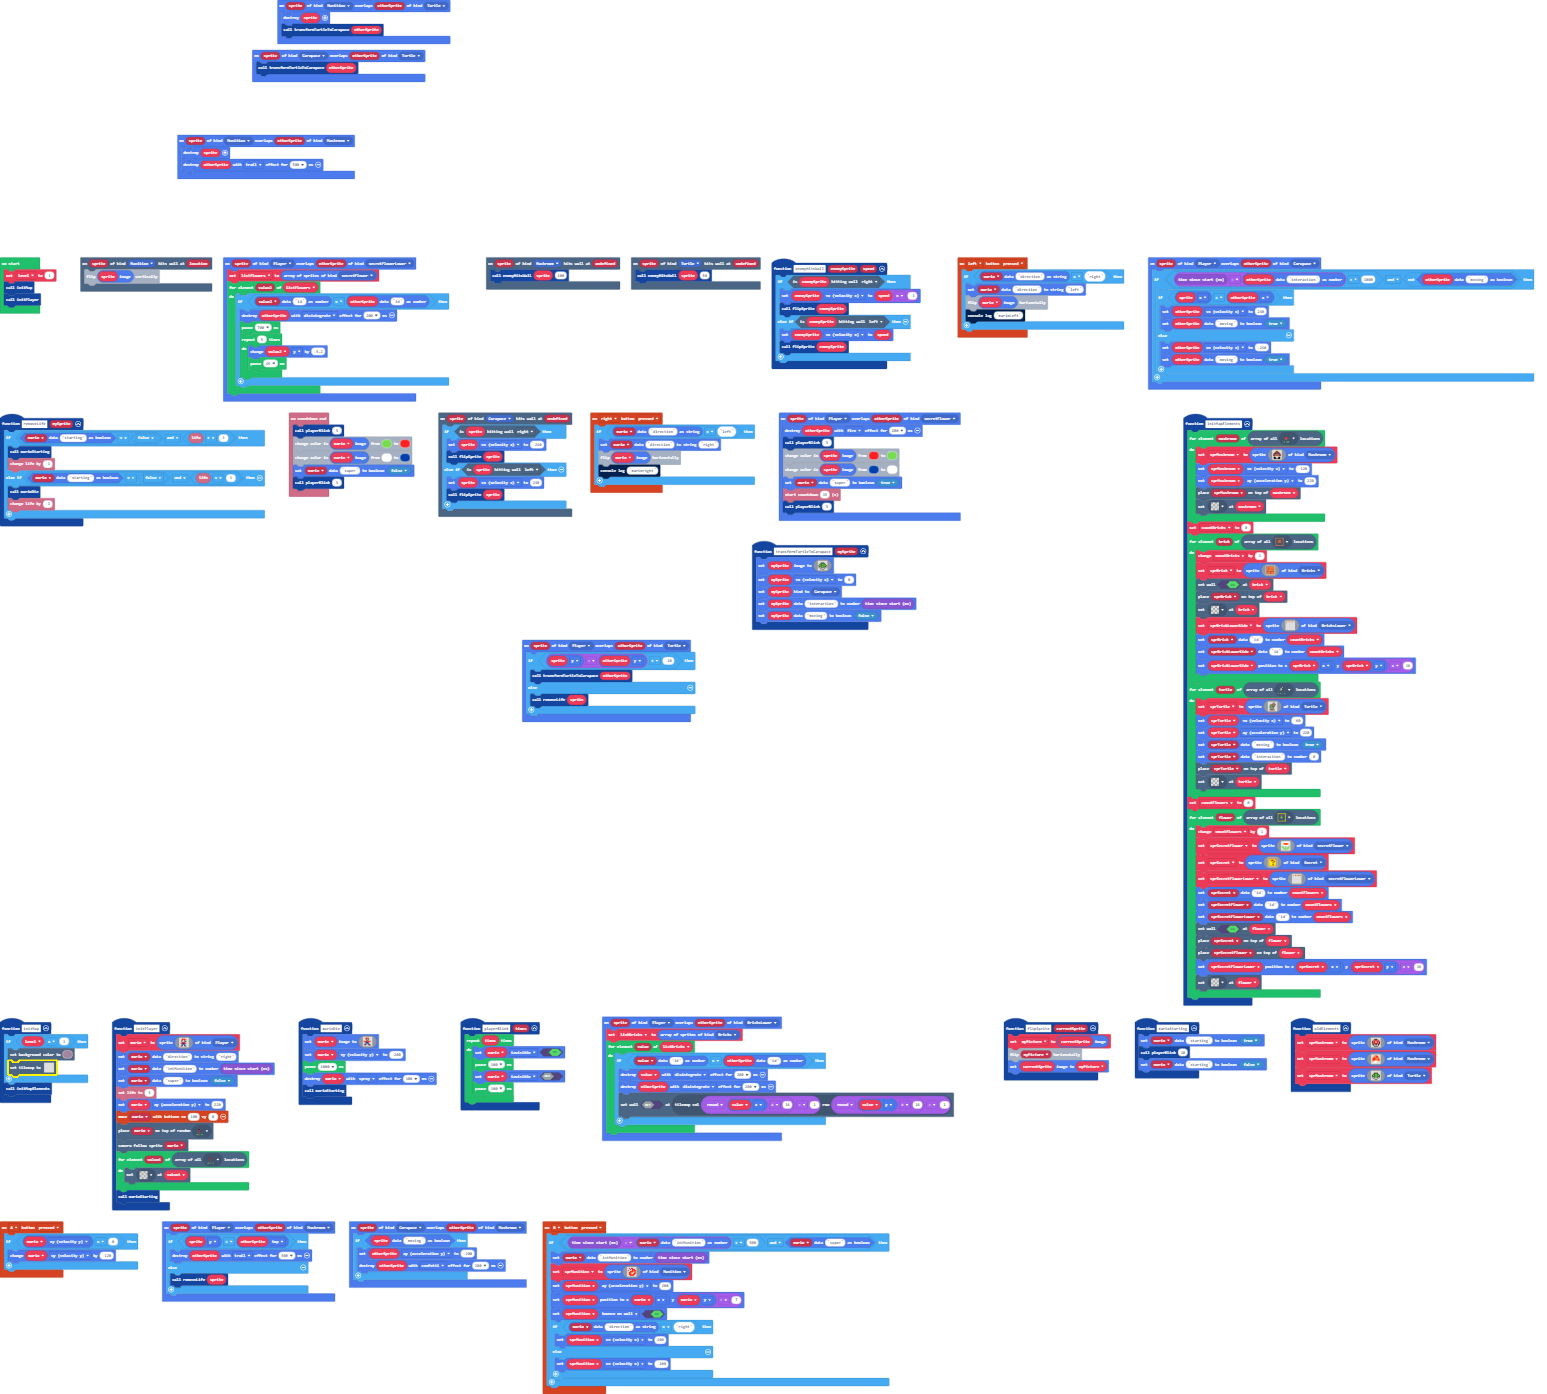
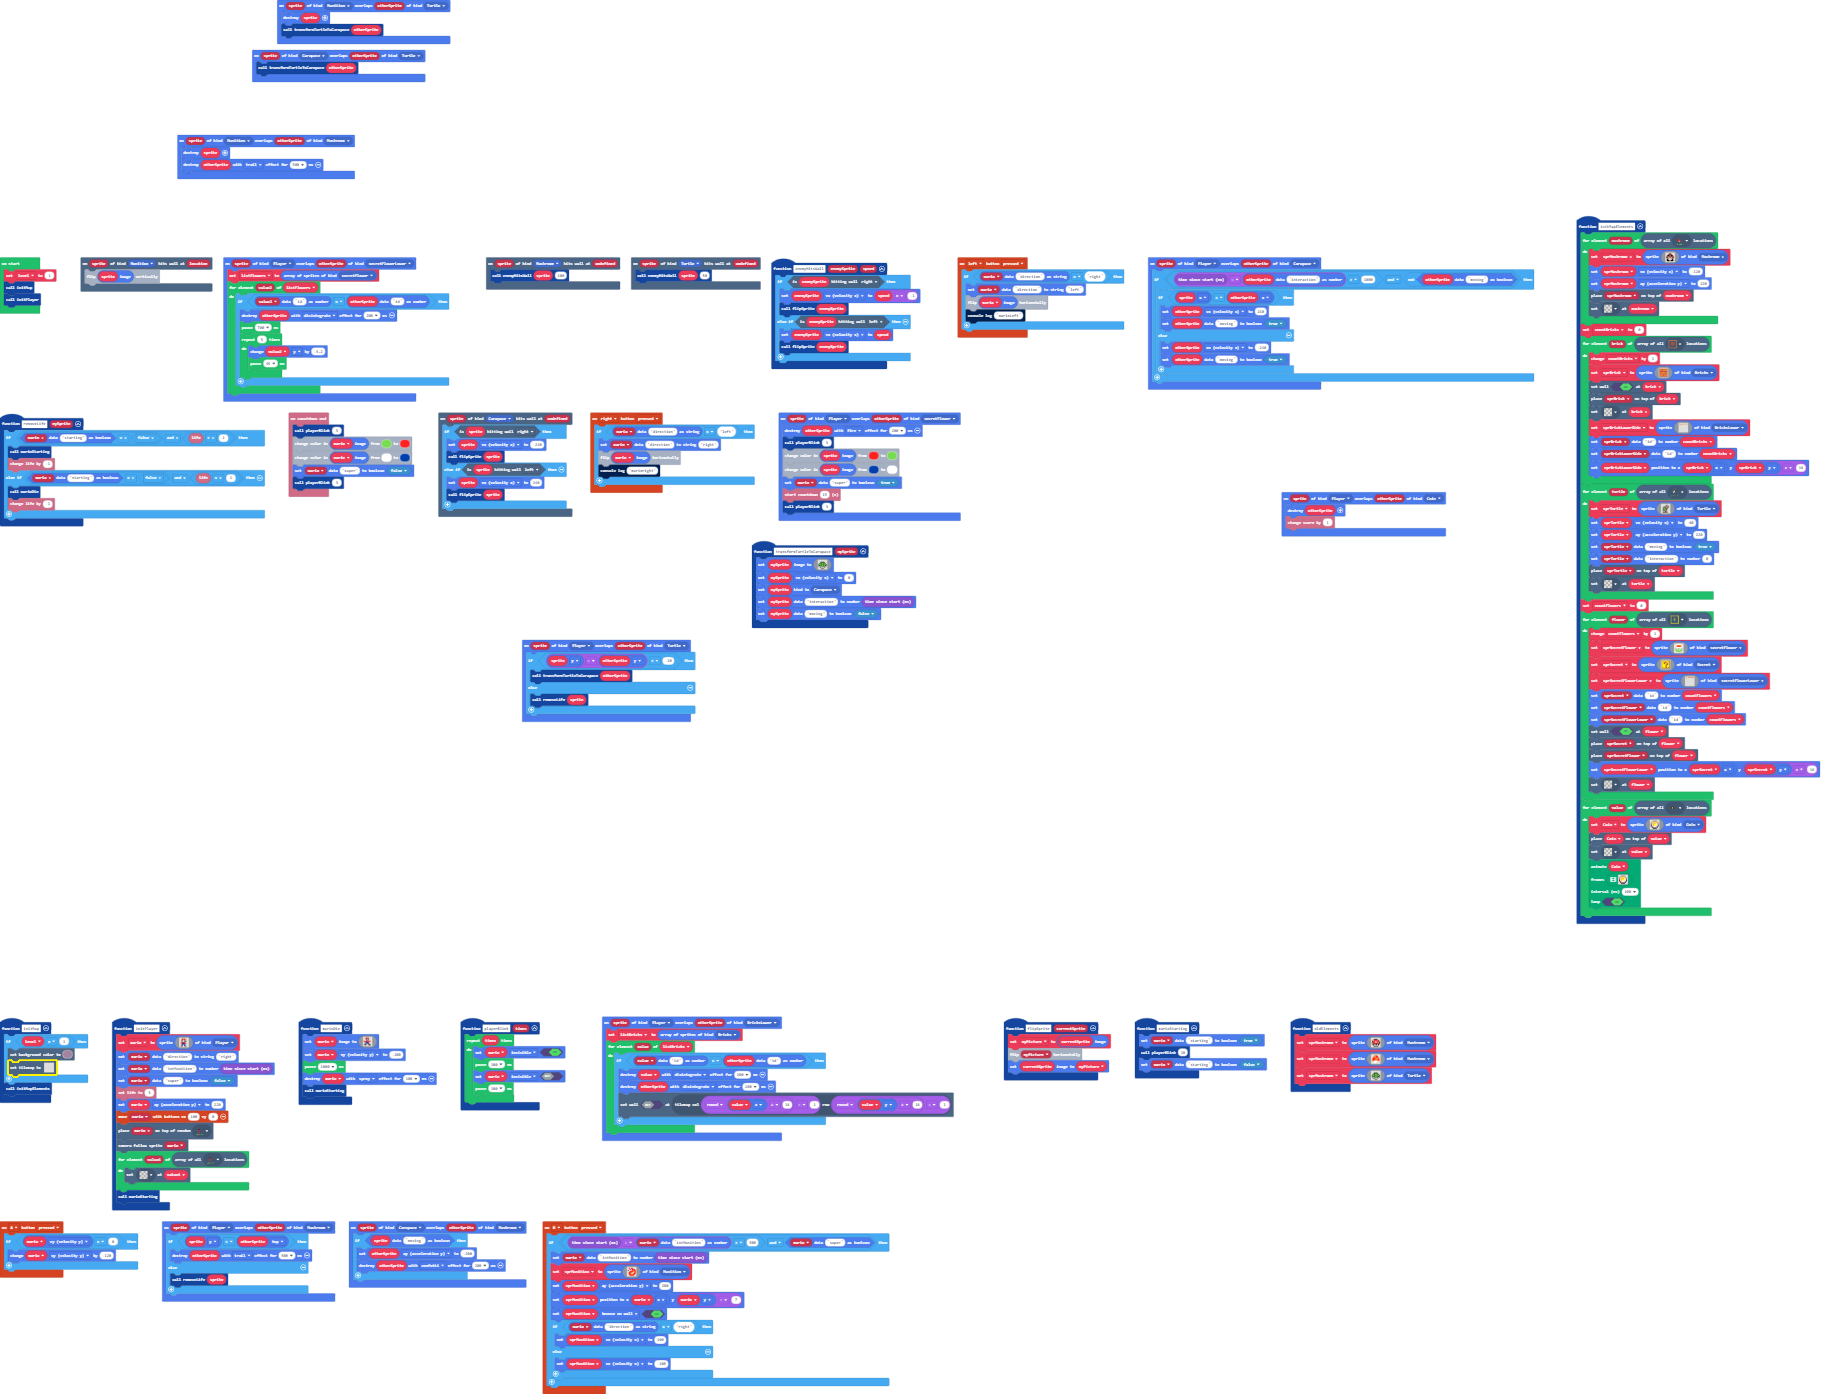
Update pxt.json, main.blocks, main.ts, tilemap.g.jres, tilemap.g.ts

diff --git a/main.ts b/main.ts
@@ -8,6 +8,7 @@ namespace SpriteKind {
     export const secretFlower = SpriteKind.create()
     export const secretFlowerLower = SpriteKind.create()
     export const Munition = SpriteKind.create()
+    export const Coin = SpriteKind.create()
 }
 sprites.onOverlap(SpriteKind.Munition, SpriteKind.Turtle, function (sprite, otherSprite) {
     sprite.destroy()
@@ -185,6 +186,80 @@ function initMapElements () {
         sprSecretFlowerLower.setPosition(sprSecret.x, sprSecret.y + 16)
         tiles.setTileAt(flower, myTiles.tile0)
     }
+    for (let value of tiles.getTilesByType(myTiles.tile14)) {
+        Coin = sprites.create(img`
+            . . b b b b . . 
+            . b 5 5 5 5 b . 
+            b 5 d 3 3 d 5 b 
+            b 5 3 5 5 1 5 b 
+            c 5 3 5 5 1 d c 
+            c d d 1 1 d d c 
+            . f d d d d f . 
+            . . f f f f . . 
+            `, SpriteKind.Coin)
+        tiles.placeOnTile(Coin, value)
+        tiles.setTileAt(value, myTiles.transparency16)
+        animation.runImageAnimation(
+        Coin,
+        [img`
+            . . b b b b . . 
+            . b 5 5 5 5 b . 
+            b 5 d 3 3 d 5 b 
+            b 5 3 5 5 1 5 b 
+            c 5 3 5 5 1 d c 
+            c d d 1 1 d d c 
+            . f d d d d f . 
+            . . f f f f . . 
+            `,img`
+            . . b b b . . . 
+            . b 5 5 5 b . . 
+            b 5 d 3 d 5 b . 
+            b 5 3 5 1 5 b . 
+            c 5 3 5 1 d c . 
+            c 5 d 1 d d c . 
+            . f d d d f . . 
+            . . f f f . . . 
+            `,img`
+            . . . b b . . . 
+            . . b 5 5 b . . 
+            . b 5 d 1 5 b . 
+            . b 5 3 1 5 b . 
+            . c 5 3 1 d c . 
+            . c 5 1 d d c . 
+            . . f d d f . . 
+            . . . f f . . . 
+            `,img`
+            . . . b b . . . 
+            . . b 5 5 b . . 
+            . . b 1 1 b . . 
+            . . b 5 5 b . . 
+            . . b d d b . . 
+            . . c d d c . . 
+            . . c 3 3 c . . 
+            . . . f f . . . 
+            `,img`
+            . . . b b . . . 
+            . . b 5 5 b . . 
+            . b 5 1 d 5 b . 
+            . b 5 1 3 5 b . 
+            . c d 1 3 5 c . 
+            . c d d 1 5 c . 
+            . . f d d f . . 
+            . . . f f . . . 
+            `,img`
+            . . . b b b . . 
+            . . b 5 5 5 b . 
+            . b 5 d 3 d 5 b 
+            . b 5 1 5 3 5 b 
+            . c d 1 5 3 5 c 
+            . c d d 1 d 5 c 
+            . . f d d d f . 
+            . . . f f f . . 
+            `],
+        100,
+        true
+        )
+    }
 }
 sprites.onOverlap(SpriteKind.Player, SpriteKind.BricksLower, function (sprite, otherSprite) {
     listBricks = sprites.allOfKind(SpriteKind.Bricks)
@@ -208,6 +283,10 @@ sprites.onOverlap(SpriteKind.Player, SpriteKind.secretFlowerLower, function (spr
             }
         }
     }
+})
+sprites.onOverlap(SpriteKind.Player, SpriteKind.Coin, function (sprite, otherSprite) {
+    otherSprite.destroy()
+    info.changeScoreBy(1)
 })
 controller.B.onEvent(ControllerButtonEvent.Pressed, function () {
     if (game.runtime() - sprites.readDataNumber(mario, "intMunition") > 500 && sprites.readDataBoolean(mario, "super")) {
@@ -247,7 +326,7 @@ controller.A.onEvent(ControllerButtonEvent.Pressed, function () {
 function initMap () {
     if (level == 1) {
         scene.setBackgroundColor(11)
[2 lines of base64/hex data omitted]
             2 . . . . . . . . . . . . . . . . . . . . . . . . . . . . . . . . . . . . . . . . . . . . . . . . . . . . . . . . . . . . . . . . . . . . . . . . . . . . . . . 
             2 . . . . . . . . . . . . . . . . . . . . . . . . . . . . . . . . . . . . . . . . . . . . . . . . . . . . . . . . . . . . . . . . . . . . . . . . . . . . . . . 
             2 . . . . . . . . . . . . . . . . . . . . . . . . . . . . . . . . . . . . . . . . . . . . . . . . . . . . . . . . . . . . . . . . . . . . . . . . . . . . . . . 
@@ -256,7 +335,7 @@ function initMap () {
             2 . . . . . . . . . . . . 2 2 . . 2 . . . . . . . . . . . . . . . . . . . . . . . . . . . . . . . . . . . . . . . . . . . . . . . . . . . . . . . . . . . . . . 
             2 . . . . . . . . . . . 2 2 2 . . 2 2 . . . 2 . . . . . 2 . . . . . . . . . . . . . . . . . . . . . . . . . . . . . . . . . . . . . . . . . . . . . . . . . . . 
             2 2 2 2 2 2 2 2 2 2 2 2 2 2 2 . . 2 2 2 2 2 2 2 2 2 2 2 2 2 2 2 2 2 2 2 2 2 2 2 2 2 2 2 2 2 2 2 2 2 2 2 2 2 2 2 2 2 2 2 2 2 2 2 2 2 2 2 2 2 2 2 2 2 2 2 2 2 2 2 
-            `, [myTiles.tile0,sprites.castle.tilePath2,myTiles.tile1,sprites.dungeon.floorLight2,sprites.castle.tilePath3,sprites.castle.tilePath1,myTiles.tile2,myTiles.tile3,myTiles.tile10,myTiles.tile11,myTiles.tile12], TileScale.Sixteen))
+            `, [myTiles.tile0,sprites.castle.tilePath2,myTiles.tile1,sprites.dungeon.floorLight2,sprites.castle.tilePath3,sprites.castle.tilePath1,myTiles.tile2,myTiles.tile3,myTiles.tile10,myTiles.tile11,myTiles.tile12,myTiles.tile14], TileScale.Sixteen))
     }
     initMapElements()
 }
@@ -513,6 +592,7 @@ let sprMunition: Sprite = null
 let mario: Sprite = null
 let listFlowers: Sprite[] = []
 let listBricks: Sprite[] = []
+let Coin: Sprite = null
 let sprSecretFlowerLower: Sprite = null
 let sprSecret: Sprite = null
 let sprSecretFlower: Sprite = null

diff --git a/tilemap.g.ts b/tilemap.g.ts
@@ -30,6 +30,8 @@ namespace myTiles {
     export const tile12 = image.ofBuffer(hex``);
     //% fixedInstance jres blockIdentity=images._tile
     export const tile13 = image.ofBuffer(hex``);
+    //% fixedInstance jres blockIdentity=images._tile
+    export const tile14 = image.ofBuffer(hex``);
 
 }
 // Auto-generated code. Do not edit.
